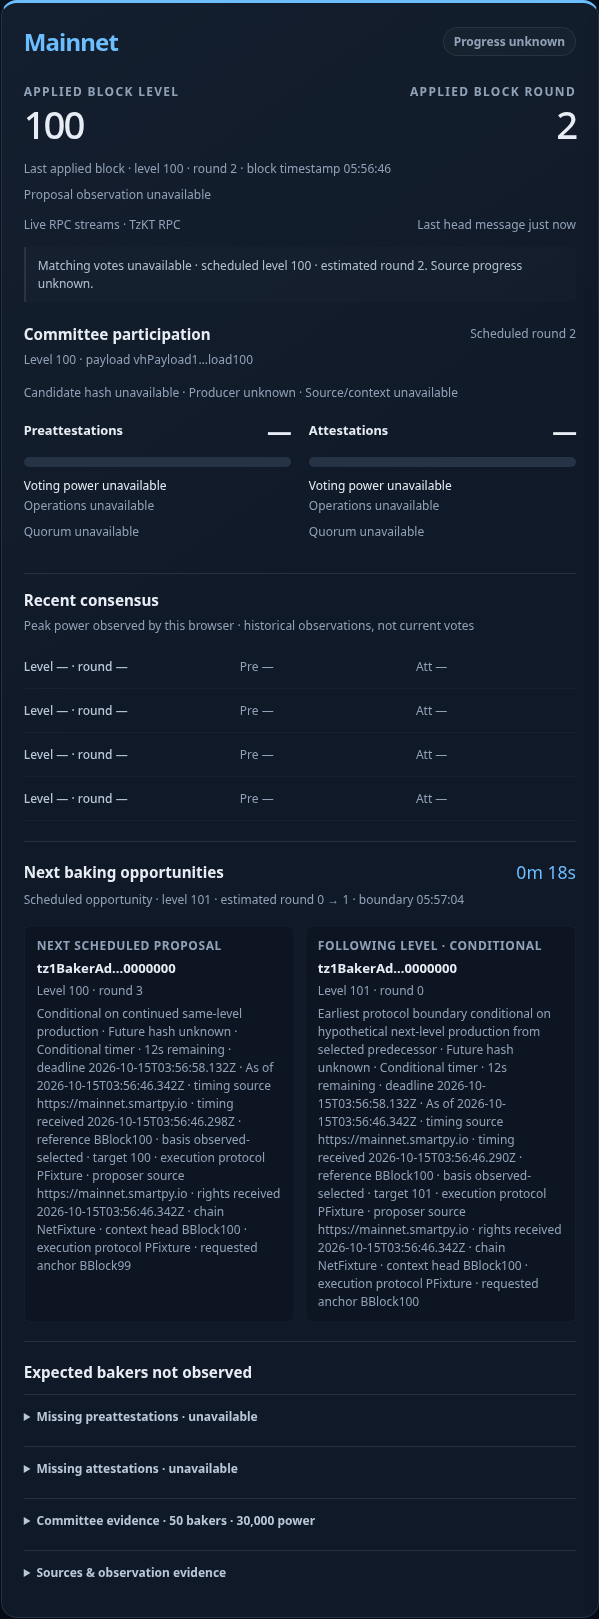
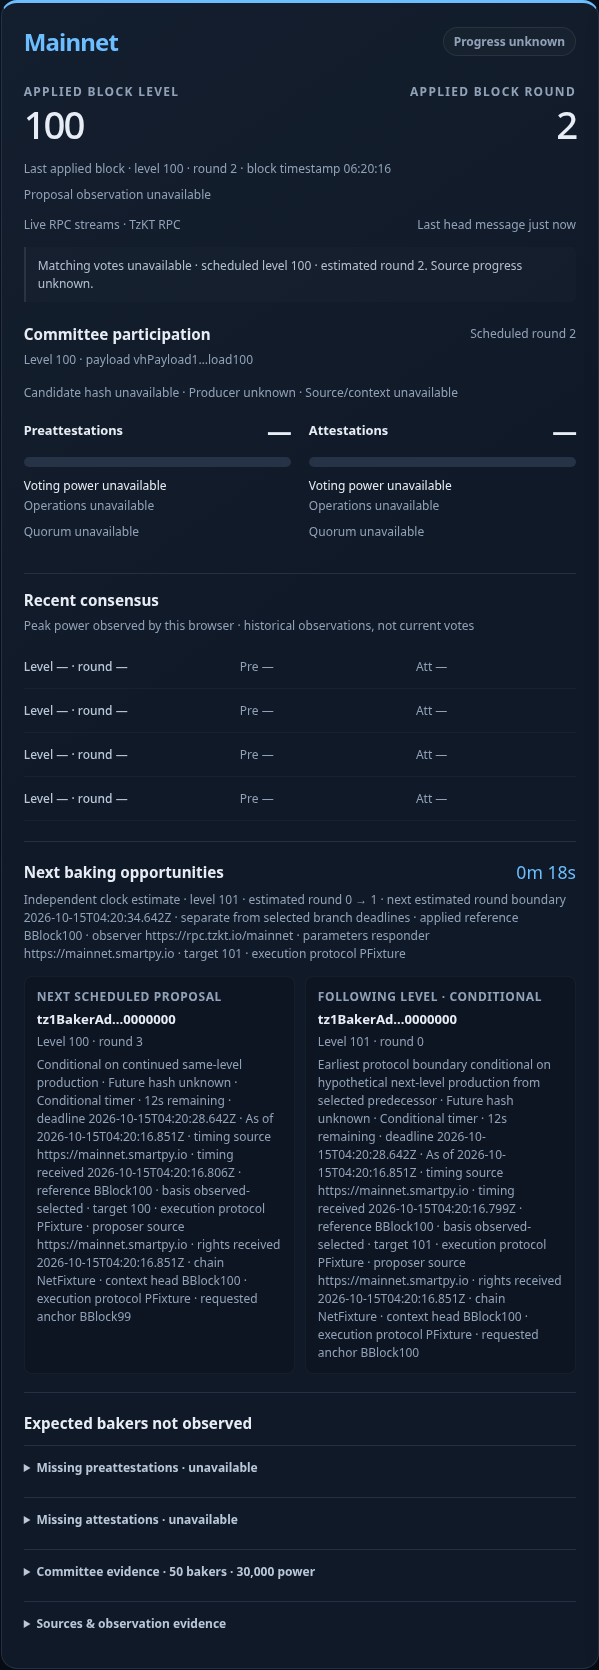
fix(consensus): bound and attribute independent clock estimates

diff --git a/tests/e2e/dashboard.spec.ts b/tests/e2e/dashboard.spec.ts
@@ -260,7 +260,7 @@ test('stalled applied head keeps estimated round 37 separate from selected obser
   await expect(panel.locator('.headline')).toHaveText('Applied block level5,489,251Applied block round101');
   await expect(panel.locator('.candidate-controls button[aria-pressed="true"]')).toHaveAttribute('title','Level 5489251 · round 101 · payload vhPayload5489251');
   await panel.locator('button[title="Level 5489252 · round 0 · payload vhPayload5489252"]').click();
-  await expect(panel.locator('.timing-detail')).toContainText('Scheduled opportunity · level 5,489,252 · estimated round 37');
+  await expect(panel.locator('.timing-detail')).toContainText('Independent clock estimate · level 5,489,252 · estimated round 37');
   await expect(panel.locator('.applied-context')).toContainText('Last applied block · level 5,489,251 · round 101 · block timestamp');
   await expect(panel.locator('.applied-context')).toBeVisible();
   await expect(panel.locator('.pre .gauge-counts')).toContainText('600 / 30,000 power');
@@ -995,4 +995,21 @@ test('valid timing with a large increment keeps a future round-zero clock estima
  await expect(panel.locator('.timing-detail')).not.toContainText('NaN');
  await expect(panel.locator('.timing-detail')).not.toContainText('Invalid Date');
  await expect(panel.locator('.headline')).toContainText('Applied block round0');
+});
+
+test('an unsupported computed clock boundary stays unavailable while valid branch deadlines remain independent',async({page})=>{
+ const observed=head(100,0);await page.clock.install({time:new Date(Date.parse(observed.timestamp)+5000)});
+ await page.addInitScript(()=>{const original=window.fetch.bind(window);window.fetch=async(input,options)=>{const response=await original(input,options),url=new URL(typeof input==='string'?input:input instanceof URL?input.href:input.url);if(url.pathname.endsWith('/context/constants'))return Response.json({...await response.json(),minimal_block_delay:'1',delay_increment_per_round:'8640000000000'});return response;};});
+ await prepare(page,false,observed);const panel=page.locator('.network-panel.mainnet');await expect(panel.locator('.baker-opportunity').first()).toContainText('Conditional timer');
+ await expect(panel.locator('.timing-detail')).not.toContainText('Invalid Date');await expect(panel.locator('.timing-detail')).not.toContainText('NaN');
+ await expect(panel.locator('.countdown')).toHaveText('Timing unavailable');await expect(panel.locator('.timing-detail')).toContainText('Independent clock estimate unavailable');
+ await expect(panel.locator('.baker-opportunity').first()).toContainText('Level 100 · round 1');await expect(panel.locator('.headline')).toContainText('Applied block round0');
+});
+
+test('the independent clock estimate identifies its applied reference and actual helper separately from selected branch deadlines',async({page})=>{
+ const observed=head(100,2);await prepare(page,false,observed);const panel=page.locator('.network-panel.mainnet'),rows=panel.locator('.baker-opportunity'),detail=panel.locator('.timing-detail');
+ await expect(rows.first()).toContainText('Conditional timer');await expect(detail).toContainText('Independent clock estimate');await expect(detail).toContainText('next estimated round boundary');await expect(detail).toContainText('separate from selected branch deadlines');
+ await expect(detail).toContainText('applied reference BBlock100');await expect(detail).toContainText('observer https://rpc.tzkt.io/mainnet');await expect(detail).toContainText('parameters responder https://mainnet.smartpy.io');await expect(detail).toContainText('target 101');await expect(detail).toContainText('execution protocol PFixture');
+ await expect(detail).toContainText(new Date(Date.parse(observed.timestamp)+18000).toISOString());
+ for(const row of [rows.first(),rows.nth(1)])await expect(row).toContainText(`deadline ${new Date(Date.parse(observed.timestamp)+12000).toISOString()}`);
 });

diff --git a/src/dashboardView.ts b/src/dashboardView.ts
@@ -23,7 +23,7 @@ export interface NetworkViewModel {
   observedAt?: number; observedMonotonic?:number; snapshotMonotonic?:number; blockTimestamp?: number; lastOperationAt?: number;
   source?: string; connection?: string; error?: string; note?: string;
   preattestations?: VoteView; attestations?: VoteView; quorum?: number; committeePower?: number;committeeTotal?:number;
-  timing?: {level?: number; round: number; nextRound: number; endsAt: number; startedAt?: number};
+  timing?: {evidence?:string; level?: number; round: number; nextRound: number; endsAt: number; startedAt?: number};
   nextBakers?: {label: string; alias?: string; address: string; round: number; level: number}[];
   opportunityFacts?:readonly OpportunityFact[];
   opportunitiesHistorical?:boolean;
@@ -235,7 +235,7 @@ export function createDashboard(root: HTMLElement, options: {onPauseChange?: (pa
     const gauges = el('div', 'gauges'), pre = gauge('Preattestations', 'pre'), att = gauge('Attestations', 'att'); gauges.append(pre.root, att.root); consensus.append(sectionTitle, selection, candidateControls, candidateEvidence,retry, gauges);
     const opportunities = el('section', 'opportunities'), timingHeader = el('div', 'section-heading'); timingHeader.append(el('h3', '', 'Next baking opportunities'));
     const countdown = el('span', 'countdown', 'Timing unavailable'); timingHeader.append(countdown);
-    const timing = el('p', 'timing-detail', 'Calculated opportunity round unavailable');
+    const timing = el('p', 'timing-detail address-text', 'Independent clock estimate unavailable');
     const bakerRows = el('div', 'baker-rows'); opportunities.append(timingHeader, timing, bakerRows);
     const missing = el('section', 'missing-section'); missing.append(el('h3', '', 'Expected bakers not observed'));
     const recent = recentConsensus();
@@ -265,10 +265,10 @@ export function createDashboard(root: HTMLElement, options: {onPauseChange?: (pa
       set(meta.get('Snapshot age')!, snapshotAge === undefined ? 'Unavailable' : `${Math.floor(snapshotAge)}s`);
       set(meta.get('Block age')!, current.blockTimestamp === undefined ? 'Unavailable' : current.observedAt===undefined||age===undefined?'Unavailable':`${Math.max(0,Math.floor((current.observedAt-current.blockTimestamp)/1000+age))}s`);
       const t = current.timing;
-      if (!t) {set(countdown, 'Timing unavailable'); set(timing, 'Calculated opportunity round unavailable'); return;}
+      if (!t) {set(countdown, 'Timing unavailable'); set(timing, 'Independent clock estimate unavailable'); return;}
       const remaining = Math.ceil((t.endsAt - now) / 1000);
       set(countdown, remaining > 0 ? `${Math.floor(remaining / 60)}m ${String(remaining % 60).padStart(2, '0')}s` : 'Awaiting next opportunity');
-      set(timing, `Scheduled opportunity · level ${number(t.level ?? current.consensusLevel)} · estimated round ${t.round} → ${t.nextRound} · boundary ${clock(t.endsAt)}${remaining <= 0 ? ' · waiting for fresh timing' : ''}`);
+      set(timing, `Independent clock estimate · level ${number(t.level ?? current.consensusLevel)} · estimated round ${t.round} → ${t.nextRound} · next estimated round boundary ${new Date(t.endsAt).toISOString()} · separate from selected branch deadlines${t.evidence?` · ${t.evidence}`:""}${remaining <= 0 ? ' · waiting for fresh timing' : ''}`);
     };
     states.set(network, {tick, update(model) {
       current = model; panel.dataset.status = model.status;

diff --git a/src/main.ts b/src/main.ts
@@ -194,13 +194,13 @@ function render(runtime: Runtime): void {
     const candidates=operations.flatMap(operation=>operation.contents).filter(content=>{
       if(!content.block_payload_hash || content.level<head.level||content.level>head.level+1)return false;
       const ceiling=content.level===head.level?headRound:constants&&successorAnchor!==undefined?
-        roundSchedule(successorAnchor,constants.minimum,constants.increment,now).round+1:0;
+        (roundSchedule(successorAnchor,constants.minimum,constants.increment,now)?.round??-1)+1:0;
       return content.round<=ceiling && (content.level!==head.level||content.round>=headRound);
     }).sort((a,b)=>b.level-a.level||b.round-a.round);
     const latest=candidates[0];if(latest)observedInstance={level:latest.level,round:latest.round};
   } else if(constants&&successorAnchor!==undefined) {
-    const scheduled=roundSchedule(successorAnchor,constants.minimum,constants.increment,now).round;
-    if(operations.some(operation=>operation.contents.some(content=>content.block_payload_hash&&content.level===head.level+1&&content.round===scheduled)))
+    const scheduled=roundSchedule(successorAnchor,constants.minimum,constants.increment,now)?.round;
+    if(scheduled!==undefined&&operations.some(operation=>operation.contents.some(content=>content.block_payload_hash&&content.level===head.level+1&&content.round===scheduled)))
       observedInstance={level:head.level+1,round:scheduled};
   }
   const proposal=view.latestProposal;
@@ -430,9 +430,9 @@ function render(runtime: Runtime): void {
       .map(delegateView);
   }
   const clockParameters=snapshot.derived?.constantsByLevel.get(appliedHead.level+1),clockContext=clockParameters?.context;
-  if(!paused&&!degraded&&appliedRound!==undefined&&clockParameters&&clockContext&&runtime.monitor.contextAuthorized(clockContext)&&clockContext.protocolHash===clockContext.observer.protocolHash&&clockContext.observer.source.baseUrl===appliedHead.evidence?.source.baseUrl&&observedHeaderMatches(clockContext.observer.header,appliedHead)){
+  if(!paused&&!degraded&&appliedRound!==undefined&&clockParameters&&clockParameters.evidence&&clockContext&&runtime.monitor.contextAuthorized(clockContext)&&clockContext.protocolHash===clockContext.observer.protocolHash&&clockContext.observer.source.baseUrl===appliedHead.evidence?.source.baseUrl&&observedHeaderMatches(clockContext.observer.header,appliedHead)){
     const boundary=conditionalRoundBoundary({referenceTimestamp:Date.parse(appliedHead.timestamp),referenceRound:appliedRound,branch:'next-level',minimum:clockParameters.minimum,increment:clockParameters.increment,roundBasis:'proven'});
-    if(boundary!==undefined){const clock=roundSchedule(boundary,clockParameters.minimum,clockParameters.increment,now);model.timing={...clock,level:appliedHead.level+1,nextRound:clock.round+1};}
+    if(boundary!==undefined){const clock=roundSchedule(boundary,clockParameters.minimum,clockParameters.increment,now);if(clock)model.timing={...clock,level:appliedHead.level+1,nextRound:clock.round+1,evidence:`applied reference ${appliedHead.hash} · observer ${clockContext.observer.source.baseUrl} · parameters responder ${clockParameters.evidence?.source.baseUrl??"unavailable"} · target ${clockContext.level} · execution protocol ${clockContext.protocolHash}`};}
   }
   if(!paused)void loadOpportunities(runtime);
   model.recentConsensus=capturedRecent(runtime);

diff --git a/tests/unit/roundSchedule.test.ts b/tests/unit/roundSchedule.test.ts
@@ -2,27 +2,31 @@ import { describe, expect, it } from "vitest";
 import { roundSchedule, proposalRound, tenderbakeFitness, conditionalRoundBoundary, protocolRoundStart } from "../../src/consensus/roundSchedule";
 
 describe("Tenderbake schedule", () => {
+  it('leaves computed clock endpoints outside the renderable calendar unavailable',()=>{
+    expect(roundSchedule(1792030001000,1,8640000000000,1792030005000)).toBeUndefined();
+    expect(roundSchedule(8640000000000000,1,0,8640000000000000)).toBeUndefined();
+  });
   it.each([2,3,20])('keeps future and exact round zero finite when increment %s is at least twice the minimum',increment=>{
     expect(roundSchedule(10000,1,increment,9000)).toEqual({round:0,startedAt:10000,endsAt:11000});
     expect(roundSchedule(10000,1,increment,10000)).toEqual({round:0,startedAt:10000,endsAt:11000});
     for(const now of [10000.000001,10000.001,10999.999])expect(roundSchedule(10000,1,increment,now)).toEqual({round:0,startedAt:10000,endsAt:11000});
     expect(roundSchedule(10000,1,increment,11000)).toEqual({round:1,startedAt:11000,endsAt:12000+increment*1000});
-    expect(roundSchedule(10000,1,increment,11000.001).round).toBe(1);
+    expect(roundSchedule(10000,1,increment,11000.001)?.round).toBe(1);
   });
   it("advances on the exact boundary and uses cumulative durations", () => {
-    expect(roundSchedule(1000, 6, 3, 6999).round).toBe(0);
+    expect(roundSchedule(1000, 6, 3, 6999)?.round).toBe(0);
     expect(roundSchedule(1000, 6, 3, 7000)).toEqual({
       round: 1,
       startedAt: 7000,
       endsAt: 16000,
     });
     const start121 = 1000 + (121 * 6 + (3 * 121 * 120) / 2) * 1000;
-    expect(roundSchedule(1000, 6, 3, start121).round).toBe(121);
-    expect(roundSchedule(1000, 6, 3, start121).endsAt - start121).toBe(369000);
+    expect(roundSchedule(1000, 6, 3, start121)?.round).toBe(121);
+    expect(roundSchedule(1000, 6, 3, start121)!.endsAt - start121).toBe(369000);
   });
   it("supports a zero increment and a future round-zero boundary", () => {
-    expect(roundSchedule(1000, 6, 0, 13000).round).toBe(2);
-    expect(roundSchedule(1000, 6, 3, 0).startedAt).toBe(1000);
+    expect(roundSchedule(1000, 6, 0, 13000)?.round).toBe(2);
+    expect(roundSchedule(1000, 6, 3, 0)?.startedAt).toBe(1000);
   });
 });
 

diff --git a/src/consensus/roundSchedule.ts b/src/consensus/roundSchedule.ts
@@ -11,7 +11,7 @@ export function roundSchedule(
   minimum: number,
   increment: number,
   now: number,
-): { round: number; startedAt: number; endsAt: number } {
+): { round: number; startedAt: number; endsAt: number } | undefined {
   if (
     ![anchor, minimum, increment, now].every(Number.isFinite) ||
     minimum <= 0 ||
@@ -31,11 +31,9 @@ export function roundSchedule(
   round = Math.max(0, round);
   if (before(round) > elapsed) round = Math.max(0, round - 1);
   if (before(round + 1) <= elapsed) round += 1;
-  return {
-    round,
-    startedAt: anchor + before(round) * 1000,
-    endsAt: anchor + before(round + 1) * 1000,
-  };
+  const startedAt=anchor+before(round)*1000,endsAt=anchor+before(round+1)*1000;
+  if(!Number.isSafeInteger(round)||round<0||round>=0x7fffffff||!validCalendarMilliseconds(startedAt)||!validCalendarMilliseconds(endsAt)||endsAt<=startedAt)return undefined;
+  return {round,startedAt,endsAt};
 }
 
 export interface TenderbakeFitness {

diff --git a/briefs/observatory-foundations-slice-9-computed-clock-fixes.md b/briefs/observatory-foundations-slice-9-computed-clock-fixes.md
@@ -1,0 +1,20 @@
+# S9 review corrections — computed calendar bounds and independent clock attribution
+
+INTERIM; parent implementation and fresh whole review/QA remain open. Pre-fix frozen source: `212bbe90b53003353e6c8be4bdb7be3bd7ac4a9a`. This correction preserves the earlier R1/R2 evidence and does not claim a live-network incident or deployment.
+
+The independent reviewer and owner reproduced a supported computed-output boundary: minimum1/increment8640000000000, actual observed header100/r0 and client time+5s produce a clock next endpoint outside JavaScript's renderable calendar, although the selected branch's first boundary remains valid. The owner's direct production-helper assertion failed before the correction; both real-page engines completed assertions showing `Invalid Date`. The estimator now returns unavailable when its computed round is unsupported or either computed endpoint cannot be safely represented and rendered. All consumers handle that optional result. No arbitrary protocol parameter cutoff was added, and the selected branches remain independently known when their own proofs are valid.
+
+The independent applied-head clock is now explicitly labelled “Independent clock estimate”, “next estimated round boundary”, and “separate from selected branch deadlines”. Its visible caption identifies the actual applied reference, observer, actual parameter responder, target and execution protocol. The responder can differ from the observer; neither receipt is relabelled. The existing text wrapping class is reused; no CSS or geometry redesign is included. A real-page fixture proves the independent18s clock versus each selected12s branch and the distinct actual TzKT observer/SmartPy parameter responder.
+
+Owner RED: one actual helper assertion (`/tmp/observatory-s9-computed-calendar-red.json`) and four completed browser assertions (`/tmp/observatory-s9-clock-qualification-red.txt`), with no import/setup/runtime failures. After correction the same four browser scenarios passed. The former “Scheduled opportunity” legacy expectation is updated to the explicit independent-clock label while retaining its exact level/estimated-round assertions.
+
+## Frozen correction gates
+
+Node22.23.3: typecheck exit0; 258 unit tests across19files PASS; build exit0; full136browser scenarios PASS in Chromium/Firefox on immutable code. Original semantic commands AC12=29, AC15=2, AC33=2, AC34=33 assertion groups PASS; browser-required commands ran both engines. The original38 inventory in the base S9 artifact remains historical evidence, not a substituted final whole-source run. Fresh whole38 closure/review/QA remains S10.
+
+Fresh S9 screenshots show this corrected visible clock qualification, preserving the old captures in Git history. SHA256:
+
[2 lines of base64/hex data omitted]
+
+S1/S4 unrelated screenshots are restored. No parent completion event, deployment, generated KB replacement or dependency change is included.

diff --git a/briefs/observatory-foundations-slice-9-review-fixes.md b/briefs/observatory-foundations-slice-9-review-fixes.md
@@ -33,3 +33,5 @@ Under Node22.23.3:
 - `git diff --check` and exact manifest scope check: exit0.
 
 The S9 base’s all38-command inventory and source hashes remain historical evidence for that source. The changed numerical paths were rerun above; S10/final QA must execute all38 originals against the final accepted tree. Old screenshot files were restored because these corrections change supported temporal boundary handling, not the approved presentation artifacts. S10 parity/glossary draft files are excluded from this correction commit. No library/dependency/framework was added; the correction reuses the existing domain arithmetic and calendar bound.
+
+Further computed-output/calendar and visible clock-attribution findings against this correction are fixed and verified separately in [computed clock corrections](observatory-foundations-slice-9-computed-clock-fixes.md). Prior gates above remain evidence of their historical source.
